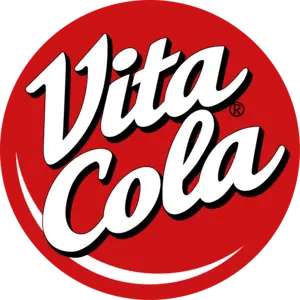
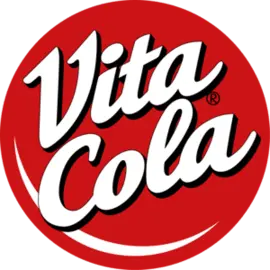
resized sponsor image

Changed region(s): [[0.7704, 0.3556, 0.8, 0.3852], [0.3556, 0.1778, 0.3852, 0.2074], [0.1778, 0.563, 0.2074, 0.5926]]

diff --git a/src/components/HeroCountdown.js b/src/components/HeroCountdown.js
@@ -29,21 +29,21 @@ const renderer = ({
                     <div className="dday">{days}</div>
                     <label>Tage</label>
                 </div>
-                <div className="countdown-holder">
+                <div className="countdown-holder d-xl-block d-none">
                     <div className="dlimiter">:</div>
                 </div>
                 <div className="countdown-holder">
                     <div className="dhour">{hours}</div>
                     <label>Stunden</label>
                 </div>
-                <div className="countdown-holder">
+                <div className="countdown-holder d-xl-block d-none">
                     <div className="dlimiter">:</div>
                 </div>
                 <div className="countdown-holder">
                     <div className="dmin">{minutes}</div>
                     <label>Minuten</label>
                 </div>
-                <div className="countdown-holder">
+                <div className="countdown-holder d-xl-block d-none">
                     <div className="dlimiter">:</div>
                 </div>
                 <div className="countdown-holder">
@@ -82,13 +82,13 @@ export default function HeroCountdown() {
                             <source 
                                 srcSet={VitaCola} 
                                 alt="Sponsorlogo: Vita Cola"
-                                width={300}
+                                width={270}
                                 height="auto"
                             />
                             <img 
                                 src={VitaCola} 
                                 alt="Sponsorlogo: Vita Cola" 
-                                width={300}
+                                width={270}
                                 height="auto"
                             />
                         </picture>
